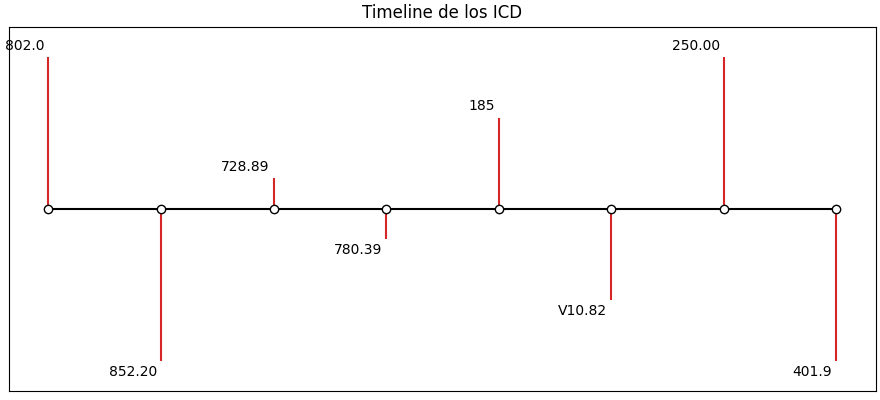
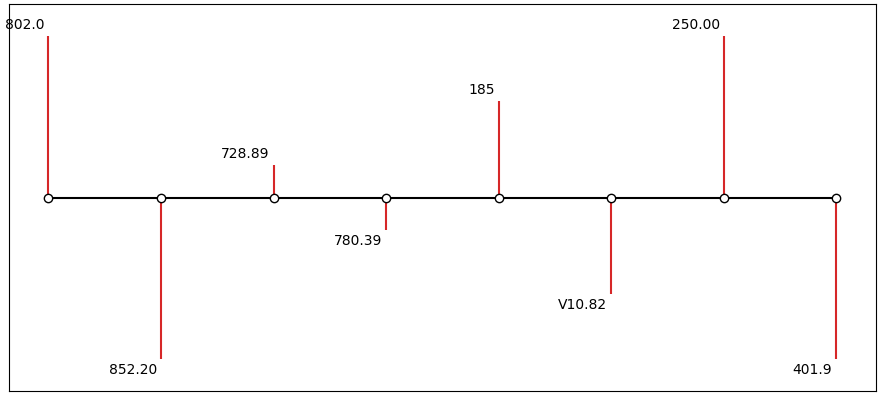
Traducida a inglés

diff --git a/icd_predictor.py b/icd_predictor.py
@@ -9,8 +9,8 @@ import functions
 
 ##PAGE SETTINGS
 st.set_page_config(
-    page_title="Predictor de futuros ICDs",
-    page_icon="🎈",
+    page_title="Future admissions analyzer ",
+    page_icon="⚕",
     #layout="wide"
 )
 def _max_width_():
@@ -28,42 +28,53 @@ def _max_width_():
 
 
 _max_width_()
-st.title("Predictor de futuros ICDs")
+st.title("Future admissions analyzer")
 st.header("")
 
 with st.expander("ℹ - About this app", expanded=True):
+#     st.write(
+#         """
+# -   El predictor de futuras enfermedades se basa en el estudio de miles de historiales de pacientes previos para sugerir enfermedades que el paciente tiene riesgo de sufrir
+# -   Emplea un modelo de inteligencia artificial entrenado para dicho propósito utilizando evoluciones clínicas de miles de pacientes
+#  """
+#     )
     st.write(
-        """     
--   El predictor de futuras enfermedades se basa en el estudio de miles de historiales de pacientes previos para sugerir enfermedades que el paciente tiene riesgo de sufrir
--   Emplea un modelo de inteligencia artificial entrenado para dicho propósito utilizando evoluciones clínicas de miles de pacientes
- """
-    )
+            """     
+    -   The predictor of future diseases is based on the study of thousands of previous patient histories to suggest diseases that the patient is at risk of suffering.    
+    -  It employs an artificial intelligence model trained for this purpose using clinical evolutions of thousands of patients.
+     """
+        )
+
 
     st.markdown("")
 
 st.markdown("")
 
-st.write("#### Ejemplos ####")
+# st.write("#### Ejemplos ####")
 
 # option = st.selectbox("",
 #     ('', 'Ejemplo 1', 'Ejemplo 2', "Ejemplo 3"))
-option = st.selectbox("",
-    ('', 'Ejemplo 1'))
+option = st.selectbox("Examples",
+    ('', 'Example 1'))
 
 # placeholder_form = st.empty()
 with st.form(key="form_1"):
     st.markdown("## Write document ##")
 
     ejemplo=""
-    if str(option)== "Ejemplo 1":
+    if str(option)== "Example 1":
         ejemplo= functions.get_ejemplo_1()
     else:
         ejemplo=option
 
     print(option)
     print(ejemplo)
+    # doc = st.text_area(
+    #     "Escribe el documento aquí (maximo 500 palabras)",
+    #     height=510, value=ejemplo
+    # )
     doc = st.text_area(
-        "Escribe el documento aquí (maximo 500 palabras)",
+        "Write the document here",
         height=510, value=ejemplo
     )
 
@@ -81,7 +92,7 @@ with st.form(key="form_1"):
 
         doc = doc[:MAX_WORDS]
 
-    submit_button = st.form_submit_button(label="✨ Predecir codigos ICD asociados")
+    submit_button = st.form_submit_button(label="⚙ Analyze the document")
 
 #
 if not submit_button:
@@ -90,8 +101,8 @@ if not submit_button:
 # placeholder_form.empty()
 
 
-st.markdown("### Registro clínico ###")
-
+# st.markdown("### Registro clínico ###")
+st.markdown("### Marked document ###")
 # annotated_text(
 #     "El paciente presenta", ("fiebre", "", "#8ef"), "dolor abdominal e hinchazón en el abdomen. ",
 #     "Posible cuadro de ", ("obstrucción intestinal", "", "#faa")
@@ -99,8 +110,8 @@ st.markdown("### Registro clínico ###")
 functions.get_ejemplo_1_marked()
 st.write("\n\n\n")
 
-with st.expander("Códigos ICD identificados", expanded=False):
-    if str(option)== "Ejemplo 1":
+with st.expander("Predicted ICD codes", expanded=False):
+    if str(option)== "Example 1":
         functions.get_ejemplo_1_marked_ICD()
 
     # annotated_text(
@@ -115,13 +126,14 @@ with st.expander("Códigos ICD identificados", expanded=False):
 
 
 st.write("\n\n")
+st.write("#### Inferred ICD timeline ####")
 
 time.sleep(3)
 plot=functions.timeline_chart(functions.get_ejemplo_1_cronology())
 
 st.pyplot(plot)
 
-st.write("#### Posibles futuros diagnósticos ####")
+st.write("#### Posible future diagnoses ####")
 
 df_futuro=functions.get_ejemplo_1_future()
 # CSS to inject contained in a string

diff --git a/functions.py b/functions.py
@@ -13,7 +13,7 @@ from annotated_text import annotated_text
 from matplotlib import pyplot as plt
 
 
-def timeline_chart(icds, title="Timeline de los ICD"):
+def timeline_chart(icds, title=""):
     # In case the above fails, e.g. because of missing internet connection
     # use the following lists as fallback.
     names = icds
